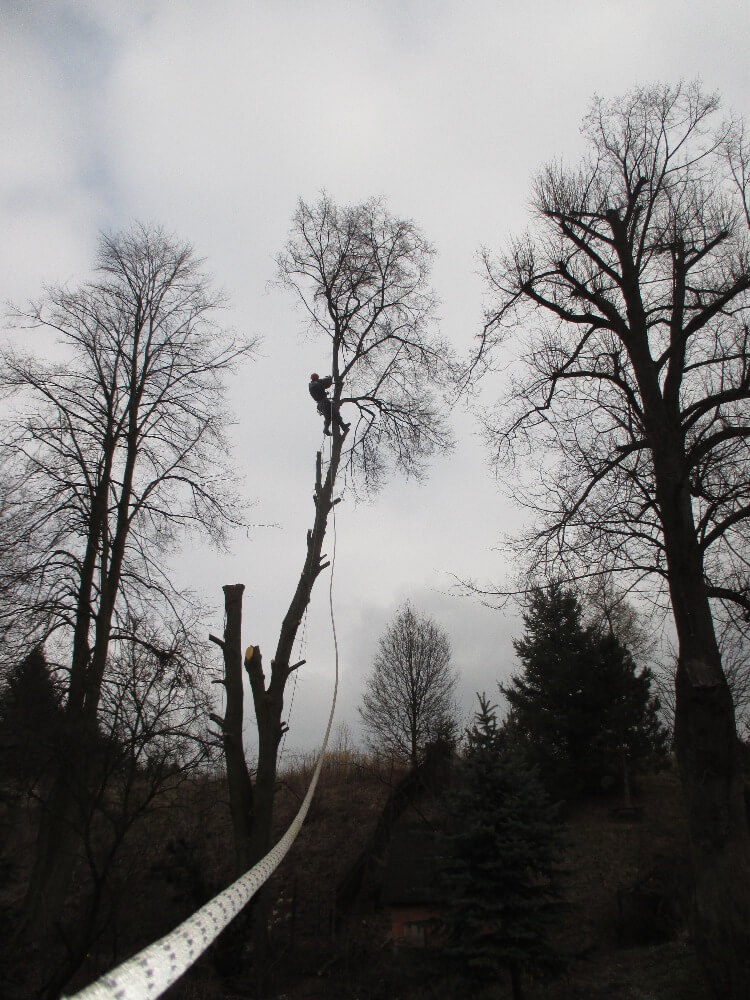
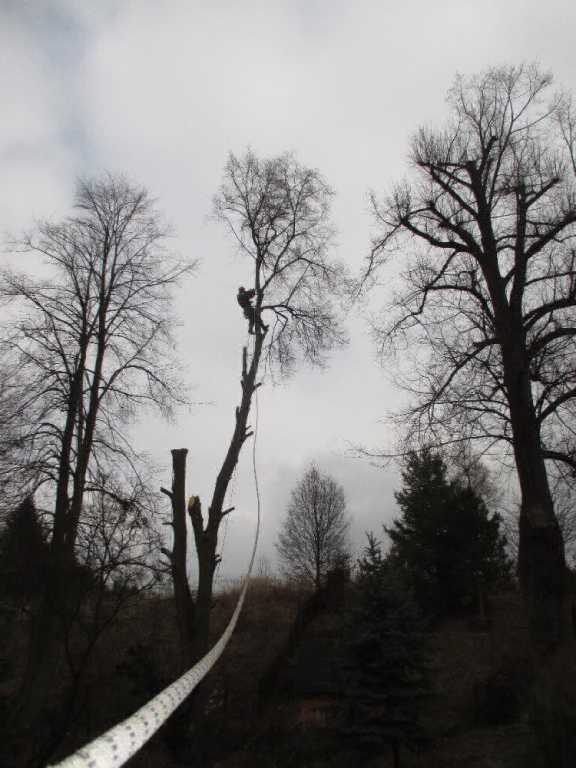
decrease size of images and add description meta tag

diff --git a/public/index.html b/public/index.html
@@ -3,6 +3,7 @@
   <head>
     <meta charset="utf-8">
     <meta name="viewport" content="width=device-width, initial-scale=1">
+    <meta name="description" content="Arboristika a výškové práce">
     <link rel="shortcut icon" href="%PUBLIC_URL%/favicon.ico">
     <link rel="stylesheet" type="text/css" href="//fonts.googleapis.com/css?family=Open+Sans" />
     <link rel='stylesheet prefetch' href='https://netdna.bootstrapcdn.com/font-awesome/3.1.1/css/font-awesome.css'>

diff --git a/src/styles/Welcome.css b/src/styles/Welcome.css
@@ -123,7 +123,6 @@
 
 .Welcome-bg span:nth-child(1) {
     background-image: url('../assets/background1.jpg');
-    background-position: 20% 50%;
 }
 
 .Welcome-bg span:nth-child(2) {
